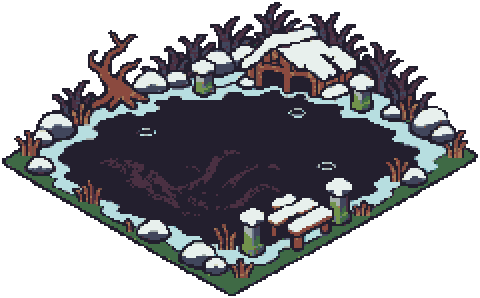
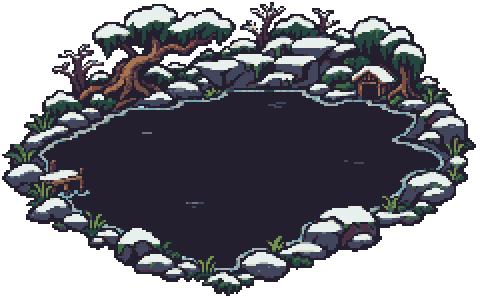
art(hagrid): reshape deep lake with a natural forest shoreline

diff --git a/docs/winter-lake-art-20261108.md b/docs/winter-lake-art-20261108.md
@@ -2,7 +2,7 @@
 
 Owner requested a winter-asset audit, missing artwork, correct scene loading, and a distinctive deep lake matching the garden's pixel theme.
 
-Inventory: six existing winter sprites are retained (hut, small frozen pond, oak, pine, grove, log). Added five matching variants: pond-1-snow, pond-2-snow, pond-3-snow, pond-bed-snow, pond-nook-snow. The deep lake also has a new non-snow sprite: dark water, old boathouse, ruined pier, ancient posts and a submerged squid silhouette. Every new asset uses the same canvas/pivot as its summer counterpart, a two-native-pixel grid, binary alpha and sprite24 plus winter white. Large immutable masters and full prompts/hashes are versioned in garden-v05/environment/winter/masters/expansion-20261108/provenance.json (built-in image_gen). Older masters remain intact.
+Inventory: six existing winter sprites are retained (hut, small frozen pond, oak, pine, grove, log). Added five matching variants: pond-1-snow, pond-2-snow, pond-3-snow, pond-bed-snow, pond-nook-snow. The deep lake also has a new non-snow sprite: wide dark open water, an irregular natural rocky shoreline, a forested far bank and a tiny boathouse/landing. Every new asset uses the same canvas/pivot as its summer counterpart, a two-native-pixel grid, binary alpha and sprite24 plus winter white. Large immutable masters and full prompts/hashes are versioned in garden-v05/environment/winter/masters/expansion-20261108/provenance.json (built-in image_gen). Older masters remain intact.
 
 Loading defects: the winter map covered only the six older sprites and was gated by calendar season; explicit snow outside December–February never requested it. Built ponds and aquatic beds drew imageFor directly; the expanded pasture/orchard grounds bypassed weather processing; orchard trees explicitly disabled snow caps. The renderer now resolves authored winter replacements for ponds/beds/nook, weatherizes expansion grounds and tree foliage, and loads winter sprites for explicit Snow as well as calendar winter. Warm scenes keep the deferred loading budget. The winter helper loads immediately if Snow is already selected, retaining its delayed warm-scene path.
 
@@ -11,3 +11,5 @@ Rebuild after other original art builders: node garden-v05/build-art-refresh.mjs
 Verification: 398 passing, 2 skipped among all recursive garden-v05 *.test.mjs except the previously unavailable historical progression-engine fixture suite. New checks validate all six assets' provenance, palette, coarse grid, alpha, matching winter/summer canvases, explicit Snow loading outside winter and actual renderer selection of the three expanded water/nook variants. WebP: 1,369 decoded-RGBA-identical conversions + 8 existing files. No backend, economy, progression, creature-size or movement changes.
 
 Local only; no publication or production-data authority. The live local 3026 review remains on demo-hpvnn-garden emulators, with the existing level-500 demo garden.
+
+Owner rejected the first deep-lake composition. The selected organic-v2 normal/snow masters replace its geometric rim and oversized props with a naturally curved shoreline and forested far bank; the explicit squid silhouette and stone posts are removed. Original masters remain available. No layout, pivot, canvas or seasonal routing change in this revision.
